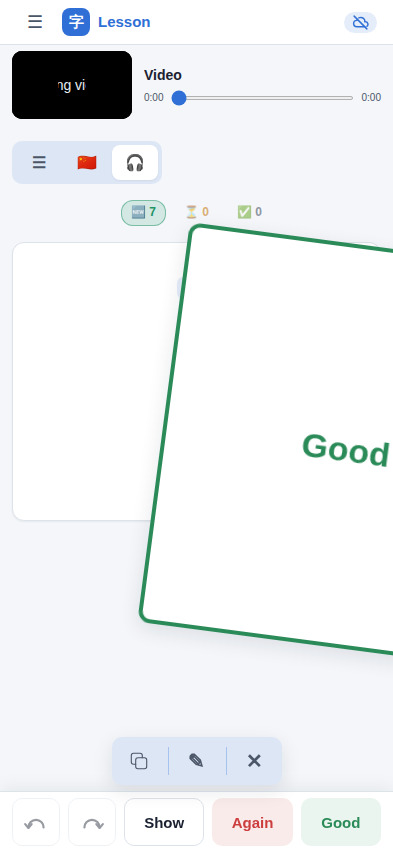
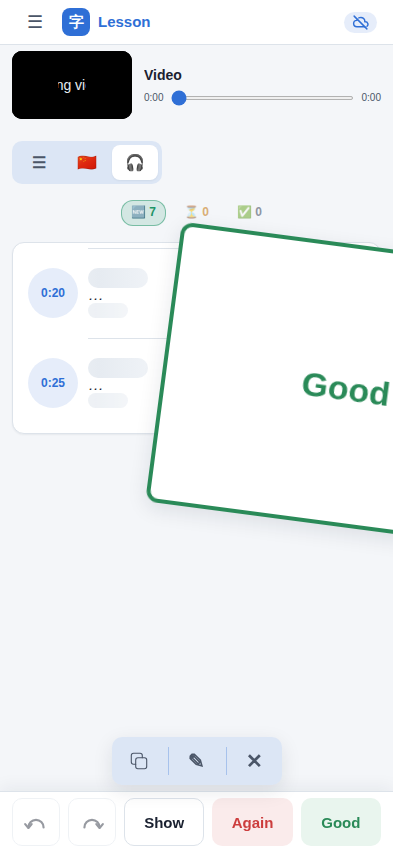
Listening redesigned as a track list
- Each card is a line with a round time button on the left that fills
  and pulses while its clip plays; the playing line is lit up
- Question in bold, answer in green beside it; lines divided by rules
- Hidden text shows as shimmering grey bars about as long as the text

Claude-Session: https://claude.ai/code/session_014V8q72mFTe1AjYmi4UdURH

diff --git a/index.html b/index.html
@@ -481,7 +481,11 @@ window.onYouTubeIframeAPIReady = function(){
     .shell .single-card-body{padding:24px 16px;}
     .shell .single-card-field{padding:14px 10px;}
     .shell .single-card-field .cell{font-size:20px;padding:2px 6px;}
-    .shell .listen-batch .listen-pair .cell{padding:0 5px;}
+    .shell .single-card-body.listen-batch{padding:5px;}
+    .shell .listen-batch .listen-pair{padding:15px 10px 15px 70px;}
+    .shell .listen-batch .listen-pair + .listen-pair::before{left:70px;right:10px;}
+    .shell .listen-batch .listen-pair .cell{padding:0;}
+    .shell .listen-batch .listen-pair .single-card-q .cell > .loop-time:first-child{left:10px;width:50px;height:50px;}
     .shell .listen-batch .listen-pair .single-card-a .cell{font-size:15px;}
   }
   html.touch input[type=text], html.touch input[type=search], html.touch input[type=email], html.touch input[type=password], html.touch textarea, html.touch select{font-size:16px;}
@@ -860,14 +864,26 @@ window.onYouTubeIframeAPIReady = function(){
     display:flex;flex-direction:column;align-items:center;justify-content:center;gap:6px;
     min-height:72px;border-radius:10px;padding:18px 18px;
   }
-  .single-card-body.listen-batch:not(.edit-row){gap:20px;}
-  .listen-pair{display:flex;flex-direction:column;align-items:center;gap:5px;padding:10px;border-radius:12px;transition:box-shadow .15s ease;}
-  .listen-pair.row-playing{box-shadow:0 0 0 4px var(--accent-soft);}
-  .listen-batch .listen-pair .single-card-field{min-height:0;padding:0;background:none;border-radius:0;}
-  .listen-batch .listen-pair .cell{padding:0 10px;text-align:center;}
+  .single-card-body.listen-batch{padding:10px;}
+  .single-card-body.listen-batch:not(.edit-row){gap:0;}
+  .listen-pair{position:relative;display:flex;flex-direction:column;align-items:flex-start;justify-content:center;gap:5px;min-height:60px;padding:20px 20px 20px 90px;border-radius:10px;transition:background .15s ease, box-shadow .15s ease;}
+  .listen-pair:not(:has(.loop-time)){padding-left:20px;}
+  .listen-pair + .listen-pair::before{content:"";position:absolute;top:0;left:90px;right:20px;border-top:1px solid var(--border);}
+  .listen-pair.row-playing{background:var(--accent-soft);box-shadow:0 0 0 4px var(--accent-soft);}
+  .listen-pair.row-playing::before, .listen-pair.row-playing + .listen-pair::before{display:none;}
+  .listen-batch .listen-pair .single-card-field{position:static;min-height:0;padding:0;background:none;border-radius:0;align-items:flex-start;}
+  .listen-batch .listen-pair .cell{padding:0;text-align:left;}
   .listen-batch .listen-pair .single-card-q .cell.shown{font-weight:600;}
   .listen-batch .listen-pair .single-card-a .cell{font-size:20px;}
-  .listen-batch .listen-pair .single-card-q .cell > .loop-time:first-child{display:block;width:fit-content;margin:0 auto 5px;font-weight:400;}
+  .listen-batch .listen-pair .single-card-q .cell > .loop-time:first-child{position:absolute;left:20px;top:50%;transform:translateY(-50%);display:flex;align-items:center;justify-content:center;width:50px;height:50px;margin:0;padding:0;border-radius:50%;font-size:12px;font-weight:600;}
+  .listen-batch .listen-pair .loop-time.looping{animation:listen-pulse 1.2s ease-out infinite;}
+  @keyframes listen-pulse{from{box-shadow:0 0 0 0 color-mix(in srgb, var(--accent) 45%, transparent);}to{box-shadow:0 0 0 10px color-mix(in srgb, var(--accent) 0%, transparent);}}
+  .listen-batch .listen-pair .cell.hidden{font-size:0;line-height:0;}
+  .listen-batch .listen-pair .cell.hidden::after{content:"";display:block;max-width:100%;border-radius:10px;background:linear-gradient(90deg, var(--surface-3) 0%, var(--surface-2) 50%, var(--surface-3) 100%) 0 0 / 200% 100%;animation:listen-shimmer 1.6s linear infinite;}
+  .listen-batch .listen-pair .single-card-q .cell.hidden::after{width:max(60px, var(--qw));height:20px;margin:5px 0;}
+  .listen-batch .listen-pair .single-card-a .cell.hidden::after{width:max(40px, var(--aw));height:15px;margin:5px 0;opacity:.7;}
+  @keyframes listen-shimmer{to{background-position:-200% 0;}}
+  @media (prefers-reduced-motion: reduce){.listen-batch .listen-pair .loop-time.looping, .listen-batch .listen-pair .cell.hidden::after{animation:none;}}
   .single-card-q{background:var(--q-bg);}
   .single-card-a{background:var(--a-bg);}
   .single-card-field .cell{font-size:24px;line-height:1.5;text-align:left;padding:2px 16px;border-radius:8px;}
@@ -2706,8 +2722,12 @@ function pickedCardRow() {
   return batch.find(r => r.id === id) || batch[0];
 }
 
+function maskWidth(text, wide, narrow) {
+  return Math.round(Array.from((text || "").trim()).reduce((w, ch) => w + (/[⺀-鿿가-힯＀-￯]/.test(ch) ? wide : narrow), 0) / 5) * 5;
+}
+
 function listenPairsHtml(batch) {
-  return batch.map(r => `<div class="listen-pair" data-id="${r.id}">${singleCardFieldsHtml(r)}</div>`).join("");
+  return batch.map(r => `<div class="listen-pair" data-id="${r.id}" style="--qw:${maskWidth(r.q, 24, 12)}px;--aw:${maskWidth(r.a, 20, 10)}px">${singleCardFieldsHtml(r)}</div>`).join("");
 }
 
 function currentBadgeIds() {

diff --git a/README.md b/README.md
@@ -19,7 +19,7 @@ The whole app is one file, `index.html`. There is no build step and nothing to i
 | --- | --- |
 | ☰ Full | The whole lesson as a list, for browsing and editing. No spaced repetition. A ＋ bar under the mode buttons (once the lesson has cards; a new, empty lesson shows the add form with its own ＋, and a lesson whose last card is moved or deleted opens Add cards, with the lesson picked, as Vocabulary opens Add vocabularies when its last word goes), in the logo's colour, shows how many cards the lesson has in front of the ＋ (such as 97 ＋) and adds a card at the top of the list (the same as the count and ＋ on the Vocabulary word list, at the same height). In a text lesson, clicking a card (its question or its answer) copies the whole card, question and answer together, in one click, and pointing at either part shades both. In a text lesson the list is a notebook page: white ruled paper with a red margin (on a phone there is no margin line, and the text sits a little further in from both edges), each question as a heading in the lesson colour with its answer written on the lines below, and the editor puts the short question on one line above a large answer box, without a dictionary. No table has a column of ✎, ✕ or 字 buttons, on a computer or a phone, in Lessons or in Vocabulary: point at a card (or select it on a phone) and press E to edit it, Delete to delete it or, in a text lesson, V to move it to Vocabulary, flying off as the logo (on a phone the bar of copy, ✎, ✕ and 字 described below does the same): the question becomes a word, the answer its meaning, and words filed under the card go along; if the sentence is already a word, the card just leaves the lesson. Undo brings it back. In every editor a coloured line starts each box: blue for the question, green for the answer, grey for the notes, and the answer box fits its text. |
 | Group | Due cards three at a time (the last two groups of a session are balanced, so 4 left become 2 + 2), each group listed in video-time order (0:05, 0:10, 0:15), so its clips play like a stretch of the video. Shown in video lessons. Once a card's answer is shown, its dictionary panel also shows the card's notes under the meaning, in the same size as the notes on a flashcard. Click the notes (tap them on a phone) to edit them right there, like the answer (also tapped on a phone): Return saves, Shift + Return starts a new line, Esc cancels, and undo brings the old notes back. The table of three works the sound as before (▶ plays the group, 1 – 3 loops one row). Under it each sentence has its own dictionary panel, and working in a panel (clicking or selecting in it, clicking its stroke order or its dictionary, editing it) means you are on that one sentence: the sound switches by itself to playing just that sentence over and over, like pressing its number. Since everything in a panel reacts to a click, pointing at its sentence, meaning or notes shows a hand, as everywhere in the app that a click does something; the text cursor appears only inside a box you are typing in. This works every time, not just once: after pressing 1 – 3, Space or ▶ for something else, going back to work in a panel loops that panel's sentence again, and moving to another panel switches to that sentence. The one exception: if you stop the sound altogether (Space, ▶, the sentence's number or its badge in the panel) while working in a panel, it stays quiet as you keep working in that same panel; moving to another panel, or clicking in the table and coming back, plays again. For that case the sentence in each panel starts with the same badge as its row in the table: the video time (1:09), or 🔊 for a card without video. Clicking it loops that sentence, or stops it when it is the one looping, and it lights up while the sentence plays. In the table too, a card without video has 🔊 in front of its question, as in Vocabulary's Group, to read it aloud over and over (click again to stop). |
-| Listening | Cards come in groups, by the same rule as Group (three at a time, the last two balanced, each group in video-time order), all in one card frame laid out like video subtitles, centred, with no boxes: each card's time (0:05) on top, its question in bold under it and its answer in green right under that, then the next card's, with white space between the three. The clips play first, in turn; Space shows all three; each card gets its dictionary panel underneath, the same panel as in Group (the card's time and question, its answer and notes, the stroke order and the dictionary); grading grades all three (or just the card you point at, which then flies off on its own), Delete deletes all three (or the card you point at), E edits the card you point at, and the copy button copies all three. The three stay together until each is graded; a session's last card can come on its own. Shown when the lesson has video cards. |
+| Listening | Cards come in groups, by the same rule as Group (three at a time, the last two balanced, each group in video-time order), all in one card frame laid out like a track list: each card is a line with a round time button on the left (0:05; tap it to play that clip; it fills with the lesson colour and pulses while it plays, and its line is lit up), its question in bold and its answer in green under it on the right, the lines divided by thin rules. Before they are shown, the question and the answer are grey bars about as long as the hidden text, with a soft shimmer, so you can tell how much you are listening for. The clips play first, in turn; Space shows all three; each card gets its dictionary panel underneath, the same panel as in Group (the card's time and question, its answer and notes, the stroke order and the dictionary); grading grades all three (or just the card you point at, which then flies off on its own), Delete deletes all three (or the card you point at), E edits the card you point at, and the copy button copies all three. The three stay together until each is graded; a session's last card can come on its own. Shown when the lesson has video cards. |
 | 🗒 Speaking | Laid out as an exam paper, one question at a time, for speaking practice of any kind: a white ruled sheet headed with the lesson's name, Question 2 of 5 and a clock that runs while you answer out loud; the heading stays in the same place when the answer is shown, so nothing jumps. The question is numbered, in the lesson colour; the ruled lines below it show ···, and the answer comes in two steps, the same with a click (or tap) on the paper, Space, Return or the phone's button (which reads Hint, then Show): the first writes a hint on those lines, the meanings of the lesson's words in the answer, in the order they come, without the words themselves, in the paper's normal ink, numbered with the numbers lined up on the left (the same in Notes); the second writes the answer there. A question without notes skips the hint and shows the answer at once. The clock is not clickable. Before the answer is shown the hint is the only help. A text lesson (the kind studied with Speaking) shows no pinyin or reading when you point at (or tap) its questions and answers, anywhere: not on the Speaking paper and not in the ☰ Full notebook. The answer then comes on the left, with the lesson's words highlighted like a highlighter pen, and a numbered Notes list of those words and meanings on the right, divided from it by a red line; Notes takes only as much width as its lines need (up to a little under half the paper), so short notes leave the answer more room and long ones are not broken over two lines without need, and each note sits a little apart from the next (on a phone, Notes comes under the answer); the clock stops. As in Listening, once the answer is shown it stays until you grade: Space, a click on the paper and the phone's button (greyed out) do nothing more. ← or → grades, as everywhere. The paper takes the normal dark background in the dark theme. Everything the question does elsewhere, the answer does here: once the answer is shown, the foot of the paper, across its whole width under the answer and Notes, shows the stroke order of its characters and the dictionary for it (there is no separate panel; the paper's sections sit 32 px apart and its dictionary is 360 px tall, like the others, the dictionary moves with the page as you scroll, and the dictionaries of the current and next questions load while the question is still showing). Pointing at the answer keeps its ruled lines and shows a hand, since clicking it opens the card editor, as in Listening, and selecting part of the answer on the paper and pressing Shift adds it as a word. On a computer there are no buttons for the card: E edits it, Delete deletes it and V moves it to Vocabulary; on a phone copy, ✎, ✕ and 字 are in the bar above the bottom buttons. A card whose answer is a translation of its question (the two are in different languages) belongs in Vocabulary: when one comes up in Speaking, a box in the middle of the screen says so and offers Move card, Move all (when the lesson has more such cards; they all go at once) or Cancel (Enter moves, Esc cancels; other keys do nothing while it is open); it asks once per card. There is no sound button, and Space does nothing once the answer is shown. In a text lesson the card editor does the same with the answer box: it highlights the words, Shift adds a selected part as a word, and the dictionary under it translates the answer. Shown in lessons without a video; it uses the same spaced repetition as Group. |
 
 In a video lesson the video sits in a player bar as wide as the lesson, fully transparent, also while it is pinned over the cards: the video plays in the small picture on the left, beside its title and a progress bar you can drag with the time and length. Click the picture and the video grows out of it, with a genie effect, into a large player as wide as the lesson, shown in full in every mode (Listening covers only the small picture); the button in its corner shrinks it back into the bar. The bar stays pinned at the top as you scroll; the large player scrolls away with the page while the mode buttons stay pinned, and making it large (with the picture or Y) scrolls the page back up to it. ▶ and the speed beside the mode buttons work as before. The mode buttons have no tooltips.
